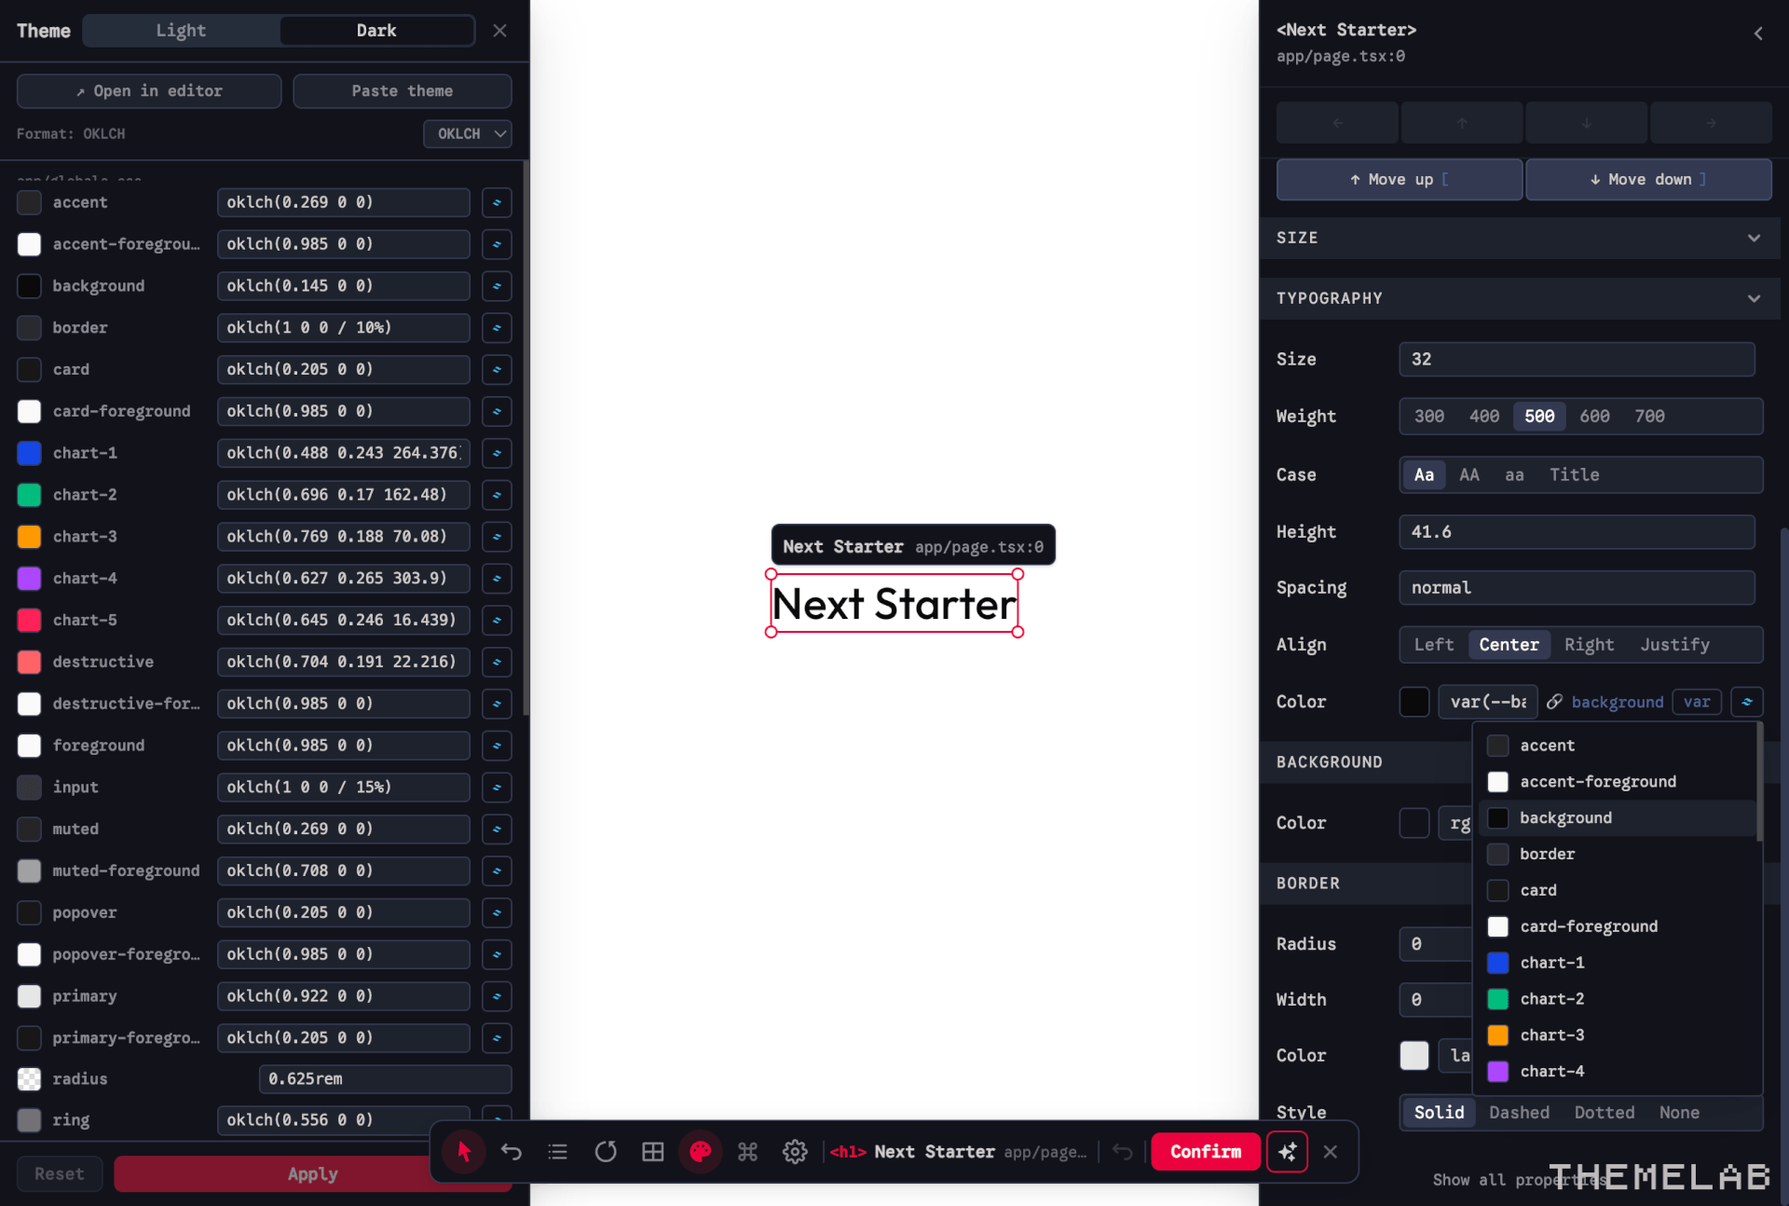
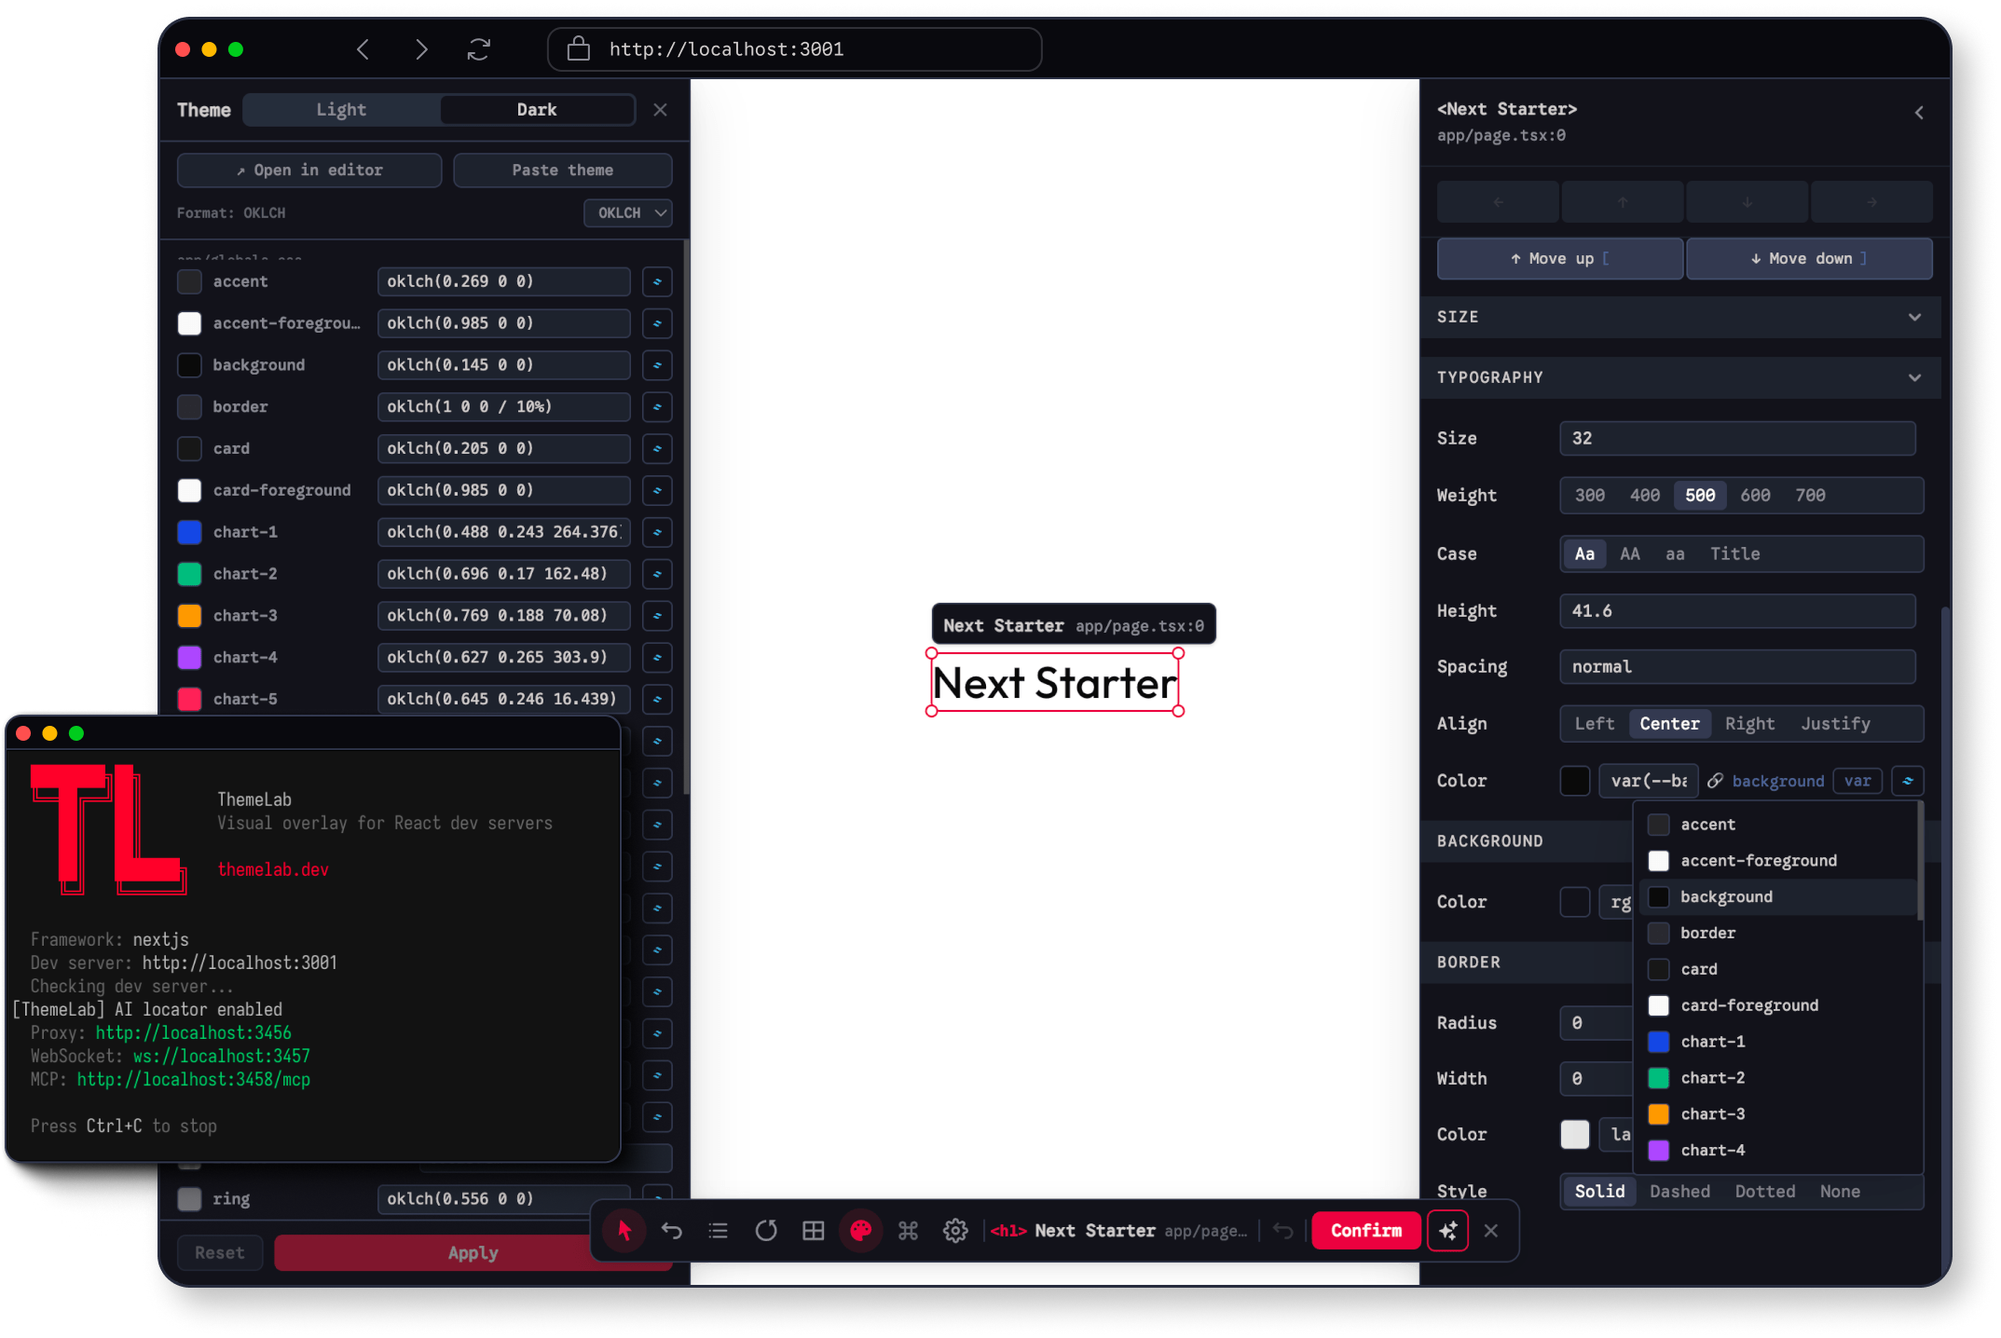
feat(web): add how-it-works page and refine landing page
- /how-it-works route with descriptive walkthrough, linked from hero CTA
- features1: uniform card grid with contained images and bottom border
- nav links point at real routes; external links open in a new tab
- landing imagery

diff --git a/apps/web/app/how-it-works/page.tsx b/apps/web/app/how-it-works/page.tsx
@@ -1,0 +1,214 @@
+import Link from "next/link";
+import type { Metadata } from "next";
+import { buttonVariants } from "@/components/ui/button";
+import { Navbar2 } from "@/sections/landing-nav";
+import { Footer } from "@/sections/footer";
+import { CommandSnippet } from "@/components/command-snippet";
+import DotBackground from "@/components/dot-background";
+import { Logo } from "@/components/logo";
+
+export const metadata: Metadata = {
+  title: "How it works — ThemeLab",
+  description:
+    "ThemeLab proxies your local dev server and injects a visual overlay. Click any element, edit its Tailwind classes or theme tokens, and confirmed changes are written back to your source files by deterministic AST transforms.",
+};
+
+const NAV_LINKS = [
+  { title: "Theme Generator", url: "/create" },
+  { title: "100r Themes", url: "/100r" },
+  { title: "Github", url: "https://github.com/alejandrotercero/themelab" },
+];
+
+const INSTALL_COMMANDS = [
+  { label: "bash", code: "curl -fsSL https://themelab.dev/install.sh | bash" },
+  { label: "npm", code: "npm install -g themelab-cli" },
+  { label: "pnpm", code: "pnpm add -g themelab-cli" },
+];
+
+const STEPS = [
+  {
+    title: "Run it next to your dev server",
+    body: "Start your React app as usual, then run themelab in a second terminal from the same project root. It opens a local reverse proxy in front of your dev server and injects a small overlay into the page — your app's source is never modified, and the overlay lives in its own Shadow DOM so its styles can't leak into (or inherit from) your UI. Auto-detection finds your dev port; pass it explicitly if needed.",
+  },
+  {
+    title: "Click to select any element",
+    body: "Hover and click an element on your running app. ThemeLab walks the React Fiber tree (via getOwnerStack on React 19, with a fiber-walk fallback on React 18) to resolve exactly which component rendered it — its name, the source file, and the line number. You can also move through the hierarchy — parent, child, siblings — from the keyboard or the sidebar.",
+  },
+  {
+    title: "Edit visually",
+    body: "Change Tailwind classes from grouped controls — Layout, Spacing, Size, Typography, Background, and Border — including DevTools-style flex alignment, a text-case toggle, and radius/width/color/style. Pick colors from the full Tailwind v4 palette or bind a property to a theme variable. Edit your shadcn/Tailwind theme tokens (the CSS variables in :root and .dark) with live preview and a light/dark toggle. Double-click text to rewrite it inline; copy, paste, duplicate, delete, and reorder siblings.",
+  },
+  {
+    title: "Confirm — changes write to source",
+    body: "Stage as many edits as you like, then hit Confirm. Each change is applied by a deterministic jscodeshift AST transform that edits your actual source files in place — not a screenshot, not a diff to copy. The browser updates immediately. Reordering an item rendered by a .map() reorders the matching entry in the underlying data array, not the JSX.",
+  },
+];
+
+function Section({
+  title,
+  children,
+}: {
+  title: string;
+  children: React.ReactNode;
+}) {
+  return (
+    <section className="space-y-3">
+      <h2 className="text-2xl font-heading tracking-tight md:text-3xl">
+        {title}
+      </h2>
+      <div className="space-y-3 text-muted-foreground leading-relaxed">
+        {children}
+      </div>
+    </section>
+  );
+}
+
+export default function HowItWorksPage() {
+  return (
+    <DotBackground className="min-h-svh">
+    <main className="min-h-svh ">
+      <Navbar2 navLinks={NAV_LINKS} />
+
+      <article className="mx-auto w-full max-w-3xl px-[5%] py-16 md:py-24 container">
+        <Logo className="max-w-1/2 mx-auto mb-4"/>
+        <header className="mb-12 md:mb-16">
+          <p className="mb-3 text-sm uppercase tracking-wider text-primary font-heading">
+            How it works
+          </p>
+          <h1 className="text-4xl font-heading tracking-tight md:text-6xl">
+            Your running app is the editor.
+          </h1>
+          <p className="mt-5 text-lg text-muted-foreground leading-relaxed">
+            ThemeLab is a local command-line tool. It sits in front of the dev
+            server you already run and gives you a visual editing layer on top of
+            your real app — every change you confirm is written straight back into
+            your source files. No prompts to write, no files to hunt through, and
+            no AI in the loop unless you ask for it.
+          </p>
+        </header>
+
+        <div className="space-y-12 md:space-y-16">
+          <Section title="The core idea">
+            <p>
+              Most ways of changing a UI ask you to leave the thing you are
+              looking at: switch to the editor, find the right file, find the
+              right line, make the edit, switch back, wait for reload. ThemeLab
+              collapses that loop. Because it proxies your dev server and injects
+              an overlay, the page in your browser is your app — but now every
+              element is selectable and editable. What you see is literally what
+              you are editing.
+            </p>
+            <p>
+              Nothing about your project changes to make this work. There is no
+              plugin to add to your bundler, no provider to wrap your app in, and
+              no build step. ThemeLab reads the React tree at runtime to map
+              pixels back to components, and writes edits back as ordinary code
+              changes you can review in git like any other diff.
+            </p>
+          </Section>
+
+          <Section title="The loop, step by step">
+            <ol className="space-y-6">
+              {STEPS.map((step, i) => (
+                <li key={step.title} className="flex gap-4">
+                  <span
+                    aria-hidden
+                    className="flex size-7 shrink-0 items-center justify-center rounded-full border border-border font-heading text-sm text-foreground"
+                  >
+                    {i + 1}
+                  </span>
+                  <div className="space-y-2">
+                    <h3 className="font-heading text-lg text-foreground">
+                      {step.title}
+                    </h3>
+                    <p className="text-muted-foreground leading-relaxed">
+                      {step.body}
+                    </p>
+                  </div>
+                </li>
+              ))}
+            </ol>
+          </Section>
+
+          <Section title="Deterministic by default">
+            <p>
+              Every edit ThemeLab applies is a precise, rule-based transform of
+              your code — the same input always produces the same output. That
+              means changes are predictable and reviewable: a class added here, a
+              token updated there, a node moved in a list. There is no model
+              guessing what you meant and no risk of an edit quietly rewriting
+              code you did not touch.
+            </p>
+          </Section>
+
+          <Section title="AI assist — optional, and only a locator">
+            <p>
+              A few cases are genuinely ambiguous in source: an element rendered
+              by a .map(), a reused component instance, conditional or
+              state-dependent rendering, or a component that outputs a different
+              host tag than its name suggests (a Link that renders an a). For
+              those, you can turn on an AI locator. It reads your source to find
+              the exact node to edit — and then hands control back. The change
+              itself is still applied by the same deterministic AST transform. The
+              AI only locates; it never writes your code.
+            </p>
+            <p>
+              It is off by default and runs only when you configure an
+              ANTHROPIC_API_KEY. When an edit would affect more than the selected
+              element — a .map() template or a shared component — it asks you to
+              confirm first, and it caches what it finds so repeated tweaks stay
+              instant. If it truly cannot find the element, it tells you why
+              rather than guessing.
+            </p>
+          </Section>
+
+          <Section title="It talks to your coding agent too">
+            <p>
+              While ThemeLab is running it also exposes a small MCP server on
+              localhost, so a coding agent like Claude Code or Cursor can read
+              what you are doing in the overlay. Click a component in the browser
+              and your agent knows the exact file and line — no more "which Button
+              did you mean?". It can ask for the current selection, the resolved
+              theme tokens, the Tailwind token map, or where a component lives in
+              the source.
+            </p>
+          </Section>
+
+          <Section title="What you need">
+            <ul className="list-disc space-y-1.5 pl-5">
+              <li>Node.js 20+ and a React project (18+)</li>
+              <li>A running development server</li>
+              <li>Next.js, Vite, or Create React App</li>
+              <li>
+                Tailwind CSS is recommended for the property editor; text and
+                structural edits work without it.
+              </li>
+            </ul>
+          </Section>
+        </div>
+
+        <div className="mt-14 space-y-5 border-t border-border pt-10 md:mt-20">
+          <h2 className="text-2xl font-heading tracking-tight md:text-3xl">
+            Install and start editing
+          </h2>
+          <CommandSnippet commands={INSTALL_COMMANDS} className="max-w-md" />
+          <div className="flex flex-wrap gap-3 pt-1">
+            <Link href="/create" className={buttonVariants({ size: "lg" })}>
+              Create a theme
+            </Link>
+            <Link
+              href="/"
+              className={buttonVariants({ size: "lg", variant: "outline" })}
+            >
+              Back home
+            </Link>
+          </div>
+        </div>
+      </article>
+
+      <Footer />
+
+    </main>
+    </DotBackground>
+  );
+}

diff --git a/apps/web/sections/features1.tsx b/apps/web/sections/features1.tsx
@@ -32,6 +32,14 @@ type Props = {
 
 export type Features1Props = React.ComponentPropsWithoutRef<"section"> & Partial<Props>;
 
+// Normalize either card shape (cardBig has `buttons`, cardsSmall has `button`)
+// into a single button list so every card renders uniformly.
+function cardButtons(card: CardBigProps | CardsSmallProps): ButtonProps[] {
+  if ("buttons" in card && card.buttons) return card.buttons;
+  if ("button" in card && card.button) return [card.button];
+  return [];
+}
+
 export const Features1 = (props: Features1Props) => {
   const { tagline, heading, description, cardsSmall, cardBig } = {
     ...Features1Defaults,
@@ -39,7 +47,7 @@ export const Features1 = (props: Features1Props) => {
   };
   return (
     <section className="px-[5%] py-8 md:py-12 lg:py-14 bg-transparent" >
-      <div className="container">
+      <div className="mx-auto w-full ">
         <div className="mb-12 md:mb-18 lg:mb-20">
           <div className="mx-auto max-w-lg text-center">
             {tagline && <p className="mb-3 text-xl uppercase bg-background/50 text-primary md:mb-4 font-heading tracking-wider">{tagline}</p>}
@@ -49,52 +57,34 @@ export const Features1 = (props: Features1Props) => {
             <p className="md:text-md ">{description}</p>
           </div>
         </div>
-        <div className="grid grid-cols-1 gap-4 md:gap-4">
-          <div className="grid grid-cols-1 gap-4 md:gap-4 lg:grid-cols-2">
-            <div className="order-first flex flex-col items-stretch border border-border-primary lg:order-0 lg:col-start-1 lg:col-end-2 lg:row-start-1 lg:row-end-3 bg-card dark:bg-background rounded-lg">
-              <div>
-                <img
-                  src={cardBig.image.src}
-                  alt={cardBig.image.alt}
-                  className="w-full object-cover rounded-t-lg"
-                />
-              </div>
-              <div className="block flex-1 flex-col items-stretch justify-center p-6 md:flex md:p-8 lg:p-12">
-                <div>
-                  {cardBig.tagline && <p className="mb-2 font-sm text-muted-foreground uppercase font-heading tracking-wider" >{cardBig.tagline}</p>}
-                  <h3 className="mb-5 text-2xl font-heading leading-[1.2] md:mb-6 md:text-3xl lg:text-4xl">
-                    {cardBig.heading}
-                  </h3>
-                  <p className="text-sm  text-muted-foreground">{cardBig.description}</p>
-                </div>
-                <div className="mt-6 flex items-center gap-4 md:mt-8">
-                  {cardBig.buttons?.map((button, index) => (
-                    <Button key={index} variant={button.variant} size={button.size}>{button.iconLeft && <span data-icon="inline-start">{button.iconLeft}</span>}{button.title}{button.iconRight && <span data-icon="inline-end">{button.iconRight}</span>}</Button>
-                  ))}
-                </div>
-              </div>
-            </div>
-            {cardsSmall.map((card, index) => (
+        <div className="grid grid-cols-1 gap-4 sm:grid-cols-2 lg:grid-cols-3">
+          {[cardBig, ...cardsSmall].map((card, index) => {
+            const buttons = cardButtons(card);
+            return (
               <div
                 key={index}
-                className="order-last flex flex-col border border-border-primary md:grid md:grid-cols-2 lg:order-0 bg-card dark:bg-background rounded-lg"
+                className="flex flex-col overflow-hidden rounded-2xl border border-border-primary bg-card dark:bg-background"
               >
-                <div className="flex w-full items-center justify-center">
-                  <img src={card.image.src} alt={card.image.alt} className="w-full object-cover" />
-                </div>
-                <div className="block flex-col justify-center p-6 md:flex">
-                  <div>
-                    {card.tagline && <p className="mb-2 text-xs uppercase text-muted-foreground font-heading tracking-wider">{card.tagline}</p>}
-                    <h3 className="mb-2 text-lg md:text-2xl font-heading leading-[1.12]">{card.heading}</h3>
-                    <p className="text-sm  text-muted-foreground">{card.description}</p>
-                  </div>
-                  <div className="mt-5 flex items-center gap-4 md:mt-6">
-
-                  </div>
+                <img
+                  src={card.image.src}
+                  alt={card.image.alt}
+                  className="w-full h-auto object-contain border-b border-border-primary"
+                />
+                <div className="flex flex-1 flex-col p-4 md:p-6">
+                  {card.tagline && <p className="mb-2 text-xs uppercase text-muted-foreground font-heading tracking-wider">{card.tagline}</p>}
+                  <h3 className="mb-2 text-lg md:text-2xl font-heading leading-[1.12]">{card.heading}</h3>
+                  <p className="text-sm text-muted-foreground">{card.description}</p>
+                  {buttons.length > 0 && (
+                    <div className="mt-4 flex items-center gap-4">
+                      {buttons.map((button, i) => (
+                        <Button key={i} variant={button.variant} size={button.size}>{button.iconLeft && <span data-icon="inline-start">{button.iconLeft}</span>}{button.title}{button.iconRight && <span data-icon="inline-end">{button.iconRight}</span>}</Button>
+                      ))}
+                    </div>
+                  )}
                 </div>
               </div>
-            ))}
-          </div>
+            );
+          })}
         </div>
       </div>
     </section>

diff --git a/apps/web/app/page.tsx b/apps/web/app/page.tsx
@@ -13,17 +13,17 @@ export default function Page() {
     <DotBackground className="min-h-svh">
     <main>
       <Navbar2 navLinks={[
-        { title: "Theme Generator", url: "#" },
-        { title: "100r Themes", url: "#" },
-        { title: "Github", url: "#" },
+        { title: "Theme Generator", url: "/create" },
+        { title: "100r Themes", url: "/100r" },
+        { title: "Github", url: "https://github.com/alejandrotercero/themelab" },
       ]}/>
       <Header
         heading="Edit your UI directly. No prompts, no file hunting."
         description="ThemeLab is a local CLI browser overlay for your dev server. Click any element, edit its Tailwind classes or shadcn/ui theme variables, and changes write to source instantly. Faster than describing it. Cheaper than asking an agent."
         buttons={[
           {
-            title: "How it Works (Coming Soon)",
-            url: "#",
+            title: "How it Works",
+            url: "/how-it-works",
             size: "lg",
           },
           {
@@ -43,26 +43,26 @@ export default function Page() {
         cardsSmall={[
           {
             heading: "Theme editing in real time",
-            description: "djust shadcn/ui theme variables and see the cascade across your entire page as you go. Color, radius, spacing, dark mode — all live.",
+            description: "Adjust shadcn/ui theme variables and see the cascade across your entire page as you go. Color, radius, spacing, dark mode — all live.",
             image: {
-              src: "/type-vars.png",
-              alt: "CLI",
+              src: "/type-vars.jpg",
+              alt: "Theme Editor",
             }
           },
           {
             heading: "AI as fallback, not the interface",
             description: "When the engine can't resolve a source location, AI steps in, finds it, and hands back control. You never notice it — which is the point.",
             image: {
-              src: "/theme.png",
-              alt: "CLI",
+              src: "/ai.jpg",
+              alt: "AI UI",
             }
           },
         ]}
         cardBig={{
 
           image: {
-            src: "/term.png",
-            alt: "Placeholder image 3",
+            src: "/manipulation.jpg",
+            alt: "Direct manipulation UI",
           },
           heading: "Direct manipulation",
           description:

diff --git a/apps/web/sections/landing-nav.tsx b/apps/web/sections/landing-nav.tsx
@@ -96,6 +96,8 @@ export const Navbar2 = (props: Navbar2Props) => {
               <Link
                 key={index}
                 href={navLink.url}
+                target={navLink.url.startsWith("http") ? "_blank" : undefined}
+                rel={navLink.url.startsWith("http") ? "noopener noreferrer" : undefined}
                 className="block py-3 text-sm uppercase tracking-wide first:pt-7 lg:px-4 lg:py-2 lg:text-xs lg:first:pt-2"
               >
                 {navLink.title}

diff --git a/apps/web/sections/hero.tsx b/apps/web/sections/hero.tsx
@@ -45,7 +45,7 @@ export const Header = (props: HeaderProps) => {
             </div>
           </div>
           <div>
-            <img src={image.src} className="size-full object-cover rounded-2xl border-border border shadow-md shadow-black dark:shadow-primary" alt={image.alt} />
+            <img src={image.src} className="size-full object-cover ok wrap insidne " alt={image.alt} />
           </div>
         </div>
       </div>
